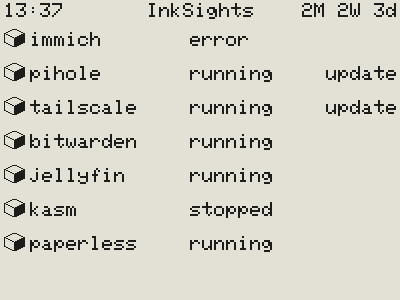
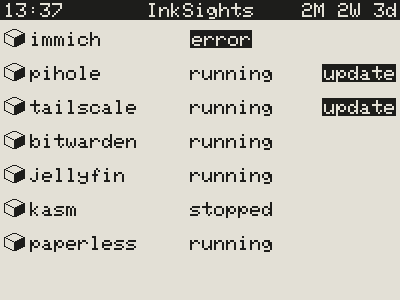
Docker examples: black top line on the 4.2 inch, a yellow 2.13 inch; small gap between picture rows

Changed region(s): [[0.0, 0.0, 1.0, 0.18], [0.78, 0.21, 0.99, 0.39]]

diff --git a/README.md b/README.md
@@ -606,7 +606,7 @@ Open **http://&lt;server&gt;:8099**.
 - The page itself shows no explanations, to keep it tidy; they are here.
 - Which cards are folded is remembered per browser.
 
-<img align="top" src="examples/example_18_settings_page_2-13.png" alt="The settings page, tab of the 2.13″ display: the live preview on the left, its cards on the right with the Display card open" width="49%"> <img align="top" src="examples/example_18_settings_page_4-2.png" alt="The settings page, tab of the 4.2″ display: the live preview on the left, its cards on the right with the Header card open" width="49%">
+<img align="top" vspace="4" src="examples/example_18_settings_page_2-13.png" alt="The settings page, tab of the 2.13″ display: the live preview on the left, its cards on the right with the Display card open" width="49%"> <img align="top" vspace="4" src="examples/example_18_settings_page_4-2.png" alt="The settings page, tab of the 4.2″ display: the live preview on the left, its cards on the right with the Header card open" width="49%">
 
 **A new display starts with:**
 
@@ -773,9 +773,9 @@ One extra page with the values of the system: CPU, RAM, network and drive temper
 Pages with one row per drive: symbol, device, pool, used/total and the bar, optionally the temperature and the
 spindown timer (see [What a display shows](#what-a-display-shows)).
 
-<img align="top" src="examples/example_04_2-13_drives_page_highlight.png" alt="Drive page on a 2.13″ display with three rows: the pool above 85 % in red, percentages with two decimals, spindown badges" width="400"> <img align="top" src="examples/example_05_2-13_drives_page_rings.png" alt="Drive page on a 2.13″ black/white display with four rows and the spindown timer as rings" width="400">
+<img align="top" vspace="4" src="examples/example_04_2-13_drives_page_highlight.png" alt="Drive page on a 2.13″ display with three rows: the pool above 85 % in red, percentages with two decimals, spindown badges" width="400"> <img align="top" vspace="4" src="examples/example_05_2-13_drives_page_rings.png" alt="Drive page on a 2.13″ black/white display with four rows and the spindown timer as rings" width="400">
 
-<img align="top" src="examples/example_08_4-2_drives_page_three_rows.png" alt="Drive page on a 4.2″ display with three big rows" width="400">
+<img align="top" vspace="4" src="examples/example_08_4-2_drives_page_three_rows.png" alt="Drive page on a 4.2″ display with three big rows" width="400">
 
 | Setting | Options | Notes |
 |---|---|---|
@@ -813,7 +813,7 @@ spindown timer (see [What a display shows](#what-a-display-shows)).
 Pages with one row per network interface (by default after the drive pages), as many rows per page as the drive
 pages.
 
-<img align="top" src="examples/example_11_4-2_network_page.png" alt="Network page on a 4.2″ display: download, upload and link speed per interface" width="400"> <img align="top" src="examples/example_12_4-2_network_page_percentage.png" alt="Network page on a 4.2″ display without symbols: how busy each link is in percent" width="400">
+<img align="top" vspace="4" src="examples/example_11_4-2_network_page.png" alt="Network page on a 4.2″ display: download, upload and link speed per interface" width="400"> <img align="top" vspace="4" src="examples/example_12_4-2_network_page_percentage.png" alt="Network page on a 4.2″ display without symbols: how busy each link is in percent" width="400">
 
 | Setting | Options | Notes |
 |---|---|---|
@@ -840,7 +840,7 @@ The same goes for the network row of the system page. Virtual interfaces (Docker
 
 A page with the time in big, below it the weekday and the date (each when ticked); by default the first page.
 
-<img align="top" src="examples/example_14_4-2_time_page.png" alt="Time page on a 4.2″ display: the time in big, weekday and date below, no top line" width="400"> <img align="top" src="examples/example_15_2-13_time_page_12h.png" alt="Time page on a 2.13″ display in 12 hours with PM" width="400">
+<img align="top" vspace="4" src="examples/example_14_4-2_time_page.png" alt="Time page on a 4.2″ display: the time in big, weekday and date below, no top line" width="400"> <img align="top" vspace="4" src="examples/example_15_2-13_time_page_12h.png" alt="Time page on a 2.13″ display in 12 hours with PM" width="400">
 
 | Setting | Options | Notes |
 |---|---|---|
@@ -1044,7 +1044,7 @@ Also in the simulator:
   and **Highlight** (in a box) for errors and updates; **Order and visibility by** State, Name or Custom; a grip like
   the other page cards.
 
-  <img align="top" src="examples/example_22_4-2_docker_page.png" alt="Docker page on a 4.2″ display: seven containers, errors first, then the ones with an update" width="400"> <img align="top" src="examples/example_23_2-13_docker_page.png" alt="Docker page on a red 2.13″ display: error and update highlighted in red boxes" width="400">
+  <img align="top" vspace="4" src="examples/example_22_4-2_docker_page.png" alt="Docker page on a 4.2″ display: seven containers, errors first, then the ones with an update, error and update in black boxes, a black top line" width="400"> <img align="top" vspace="4" src="examples/example_23_2-13_docker_page.png" alt="Docker page on a red 2.13″ display: error and update highlighted in red boxes" width="400"> <img align="top" vspace="4" src="examples/example_24_2-13_docker_page_yellow.png" alt="Docker page on a yellow 2.13″ display: error and update in yellow boxes with black text" width="400">
 - The Value simulation card folds (the triangle next to its heading).
 - The **USB** card at the bottom is the [USB setup](#usb-setup), plus **Send to display**: it sends what a simulated
   display gets to the real board, so the display shows it right away (without "NO DATA" later, as the simulated time
@@ -1171,7 +1171,7 @@ The pictures of this part without the top line (the default), three per screen: 
 glass, no caption), **Roast** (a coffee cup, the default of [Beverages](#beverages), with its **Caption**) and
 **Tabula Rasa** (nothing on the table) with its **Caption** and **Got the time?** (a wall clock):
 
-<img align="top" src="examples/example_17_4-2_nothing_to_ink.png" alt="A 4.2″ display with every page switched off: three people at a table, the bottle and the glass (House Wine)" width="270"> <img align="top" src="examples/example_17_4-2_nothing_to_ink_roast_caption.png" alt="The same with its caption and a coffee cup (Roast)" width="270"> <img align="top" src="examples/example_17_4-2_nothing_to_ink_tabula_rasa_clock.png" alt="The same with its caption, nothing on the table and a wall clock (Tabula Rasa, Got the time?)" width="270">
+<img align="top" vspace="4" src="examples/example_17_4-2_nothing_to_ink.png" alt="A 4.2″ display with every page switched off: three people at a table, the bottle and the glass (House Wine)" width="270"> <img align="top" vspace="4" src="examples/example_17_4-2_nothing_to_ink_roast_caption.png" alt="The same with its caption and a coffee cup (Roast)" width="270"> <img align="top" vspace="4" src="examples/example_17_4-2_nothing_to_ink_tabula_rasa_clock.png" alt="The same with its caption, nothing on the table and a wall clock (Tabula Rasa, Got the time?)" width="270">
 
 ### The Intermission
 
@@ -1187,7 +1187,7 @@ that gets nothing any more would look the same as one that works.
 - Reasons: the board is unplugged or the system is off, the script or the settings page does not run, or a WiFi
   board lost its WiFi.
 
-<img align="top" src="examples/example_16_2-13_no_connection.png" alt="A red 2.13″ display without fresh data: the empty table, the bottle and the glass (House Wine)" width="270"> <img align="top" src="examples/example_16_2-13_no_connection_roast_caption.png" alt="The same with its caption and a coffee cup (Roast)" width="270"> <img align="top" src="examples/example_16_2-13_no_connection_tabula_rasa_clock.png" alt="The same with its caption, nothing on the table and a wall clock (Tabula Rasa, Got the time?)" width="270">
+<img align="top" vspace="4" src="examples/example_16_2-13_no_connection.png" alt="A red 2.13″ display without fresh data: the empty table, the bottle and the glass (House Wine)" width="270"> <img align="top" vspace="4" src="examples/example_16_2-13_no_connection_roast_caption.png" alt="The same with its caption and a coffee cup (Roast)" width="270"> <img align="top" vspace="4" src="examples/example_16_2-13_no_connection_tabula_rasa_clock.png" alt="The same with its caption, nothing on the table and a wall clock (Tabula Rasa, Got the time?)" width="270">
 
 ### The Afterhours
 
@@ -1196,7 +1196,7 @@ the display shows only this picture, the chairs up on the table, with **Closed u
 format of the display, with 12h `Closed until 07:00AM` as in the pictures), and spares the panel: new data do not
 redraw it. With **Roast** the cup stands between the chairs, without steam: a cold cup left at closing time.
 
-<img align="top" src="examples/example_21_2-13_closed.png" alt="A yellow 2.13″ display in its quiet hours: two chairs upside down on a table, the bottle and the glass (House Wine)" width="270"> <img align="top" src="examples/example_21_2-13_closed_roast_caption.png" alt="The same with its caption and a coffee cup (Roast)" width="270"> <img align="top" src="examples/example_21_2-13_closed_tabula_rasa_clock.png" alt="The same with its caption, nothing on the table and a wall clock (Tabula Rasa, Got the time?)" width="270">
+<img align="top" vspace="4" src="examples/example_21_2-13_closed.png" alt="A yellow 2.13″ display in its quiet hours: two chairs upside down on a table, the bottle and the glass (House Wine)" width="270"> <img align="top" vspace="4" src="examples/example_21_2-13_closed_roast_caption.png" alt="The same with its caption and a coffee cup (Roast)" width="270"> <img align="top" vspace="4" src="examples/example_21_2-13_closed_tabula_rasa_clock.png" alt="The same with its caption, nothing on the table and a wall clock (Tabula Rasa, Got the time?)" width="270">
 
 ### InkSights
 

diff --git a/examples/README.md b/examples/README.md
@@ -144,14 +144,14 @@ with the time now).
 
 ### The Conversation: 4.2″ with nothing to show
 
-<img align="top" src="example_17_4-2_nothing_to_ink.png" alt="A 4.2″ display with every page switched off: three people at a table, the bottle and the glass (House Wine)" width="32%"> <img align="top" src="example_17_4-2_nothing_to_ink_roast_caption.png" alt="The same with its caption and a coffee cup (Roast)" width="32%"> <img align="top" src="example_17_4-2_nothing_to_ink_tabula_rasa_clock.png" alt="The same with its caption, nothing on the table and a wall clock (Tabula Rasa, Got the time?)" width="32%">
+<img align="top" vspace="4" src="example_17_4-2_nothing_to_ink.png" alt="A 4.2″ display with every page switched off: three people at a table, the bottle and the glass (House Wine)" width="32%"> <img align="top" vspace="4" src="example_17_4-2_nothing_to_ink_roast_caption.png" alt="The same with its caption and a coffee cup (Roast)" width="32%"> <img align="top" vspace="4" src="example_17_4-2_nothing_to_ink_tabula_rasa_clock.png" alt="The same with its caption, nothing on the table and a wall clock (Tabula Rasa, Got the time?)" width="32%">
 
 Every page of this display is switched off (no system, drive, network, time or WiFi page): **The Conversation**,
 three people at a table, with **Nothing to ink** as its caption, so the display never looks broken.
 
 ### The Intermission: 2.13″ without connection
 
-<img align="top" src="example_16_2-13_no_connection.png" alt="A red 2.13″ display without fresh data: the empty table, the bottle and the glass (House Wine)" width="32%"> <img align="top" src="example_16_2-13_no_connection_roast_caption.png" alt="The same with its caption and a coffee cup (Roast)" width="32%"> <img align="top" src="example_16_2-13_no_connection_tabula_rasa_clock.png" alt="The same with its caption, nothing on the table and a wall clock (Tabula Rasa, Got the time?)" width="32%">
+<img align="top" vspace="4" src="example_16_2-13_no_connection.png" alt="A red 2.13″ display without fresh data: the empty table, the bottle and the glass (House Wine)" width="32%"> <img align="top" vspace="4" src="example_16_2-13_no_connection_roast_caption.png" alt="The same with its caption and a coffee cup (Roast)" width="32%"> <img align="top" vspace="4" src="example_16_2-13_no_connection_tabula_rasa_clock.png" alt="The same with its caption, nothing on the table and a wall clock (Tabula Rasa, Got the time?)" width="32%">
 
 The display got no fresh data for too long: **The Intermission**, the empty table, with **Check connection** as
 its caption; on this red panel the bottle and the cup in red. With its **Header** ticked the top line shows
@@ -159,7 +159,7 @@ its caption; on this red panel the bottle and the cup in red. With its **Header*
 
 ### The Afterhours: 2.13″ in its quiet hours
 
-<img align="top" src="example_21_2-13_closed.png" alt="A yellow 2.13″ display in its quiet hours: two chairs upside down on a table, the bottle and the glass (House Wine)" width="32%"> <img align="top" src="example_21_2-13_closed_roast_caption.png" alt="The same with its caption and a coffee cup (Roast)" width="32%"> <img align="top" src="example_21_2-13_closed_tabula_rasa_clock.png" alt="The same with its caption, nothing on the table and a wall clock (Tabula Rasa, Got the time?)" width="32%">
+<img align="top" vspace="4" src="example_21_2-13_closed.png" alt="A yellow 2.13″ display in its quiet hours: two chairs upside down on a table, the bottle and the glass (House Wine)" width="32%"> <img align="top" vspace="4" src="example_21_2-13_closed_roast_caption.png" alt="The same with its caption and a coffee cup (Roast)" width="32%"> <img align="top" vspace="4" src="example_21_2-13_closed_tabula_rasa_clock.png" alt="The same with its caption, nothing on the table and a wall clock (Tabula Rasa, Got the time?)" width="32%">
 
 **The Afterhours** with **Scheduled** 23:00 to 07:00, at 23:37: only its picture, the chairs up on the table, with
 its caption **Closed until 07:00AM** (**12h** with AM/PM in the Time card); on this yellow panel the bottle and the
@@ -174,17 +174,18 @@ place it keeps with or without the top line.
 
 ## Docker pages (simulator so far)
 
-<img align="top" src="example_22_4-2_docker_page.png" alt="Docker page on a 4.2″ display: seven containers, errors first, then the ones with an update" width="400"> <img align="top" src="example_23_2-13_docker_page.png" alt="Docker page on a red 2.13″ display: error and update highlighted in red boxes" width="400">
+<img align="top" vspace="4" src="example_22_4-2_docker_page.png" alt="Docker page on a 4.2″ display: seven containers, errors first, then the ones with an update, error and update in black boxes, a black top line" width="400"> <img align="top" vspace="4" src="example_23_2-13_docker_page.png" alt="Docker page on a red 2.13″ display: error and update highlighted in red boxes" width="400"> <img align="top" vspace="4" src="example_24_2-13_docker_page_yellow.png" alt="Docker page on a yellow 2.13″ display: error and update in yellow boxes with black text" width="400">
 
 One row per Docker container: its name, its state (running, error, stopped) and **update** when a newer image is
-out, errors first, then the ones with an update. On the left a 4.2″ with every container; on the right a red 2.13″
-with **Highlight**: error and update in red boxes. So far only in the simulator, not on the real settings page.
+out, errors first, then the ones with an update. On the left a 4.2″ with every container, **Highlight** on (error and
+update in black boxes) and a black top line; on the right a red 2.13″ with **Highlight**: error
+and update in red boxes; below it the same on a yellow 2.13″, black text on the yellow boxes. So far only in the simulator, not on the real settings page.
 
 ## Settings page and simulator
 
 ### The settings page
 
-<img align="top" src="example_18_settings_page_2-13.png" alt="The settings page, tab of the 2.13″ display: the live preview on the left, its cards on the right with the Display card open" width="49%"> <img align="top" src="example_18_settings_page_4-2.png" alt="The settings page, tab of the 4.2″ display: the live preview on the left, its cards on the right with the Header card open" width="49%">
+<img align="top" vspace="4" src="example_18_settings_page_2-13.png" alt="The settings page, tab of the 2.13″ display: the live preview on the left, its cards on the right with the Display card open" width="49%"> <img align="top" vspace="4" src="example_18_settings_page_4-2.png" alt="The settings page, tab of the 4.2″ display: the live preview on the left, its cards on the right with the Header card open" width="49%">
 
 The settings page with two displays, one tab each (green dot = connected): at the top the versions of the WebUI,
 the script and the firmware on each controller, then the tab of a display with its live preview on the left (it
